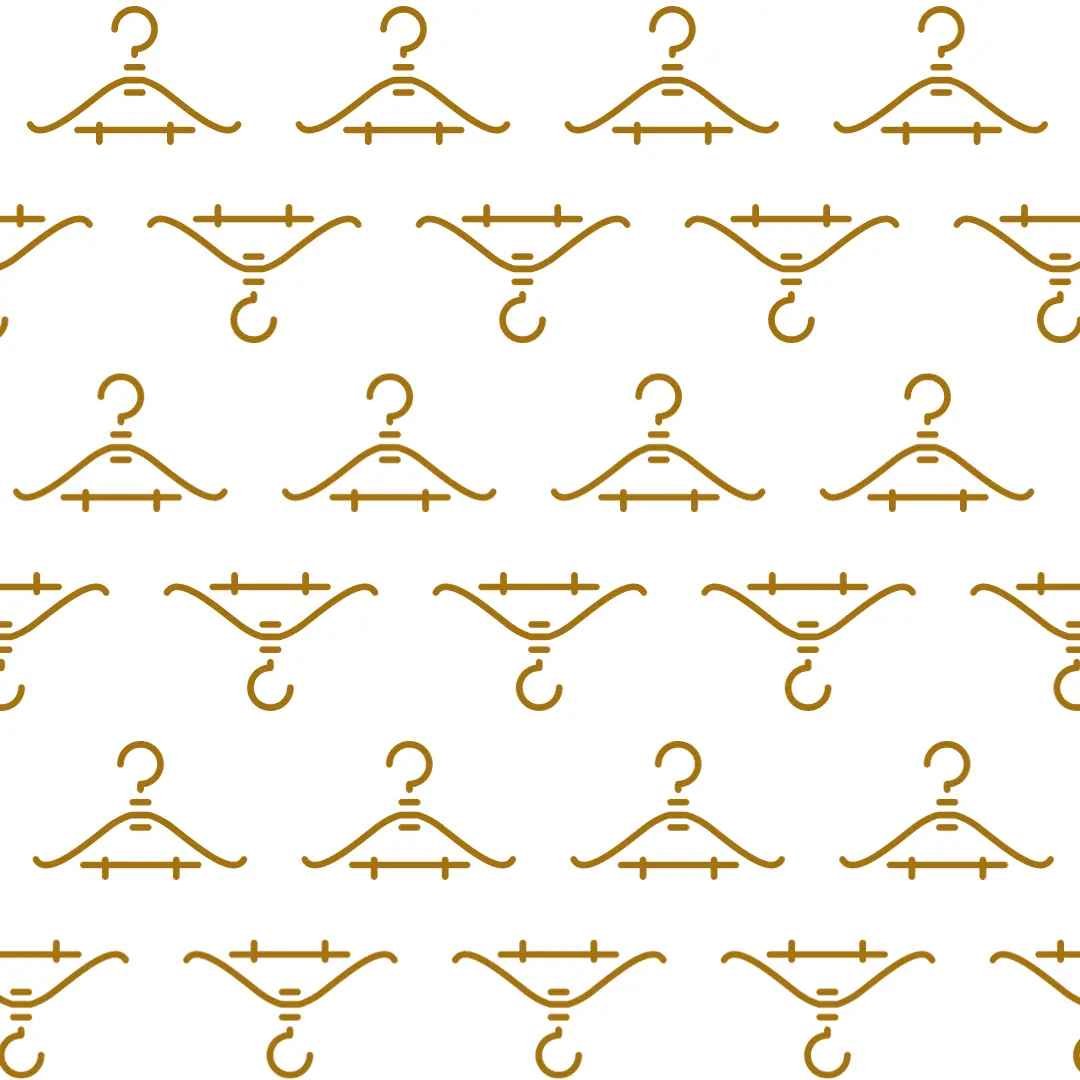
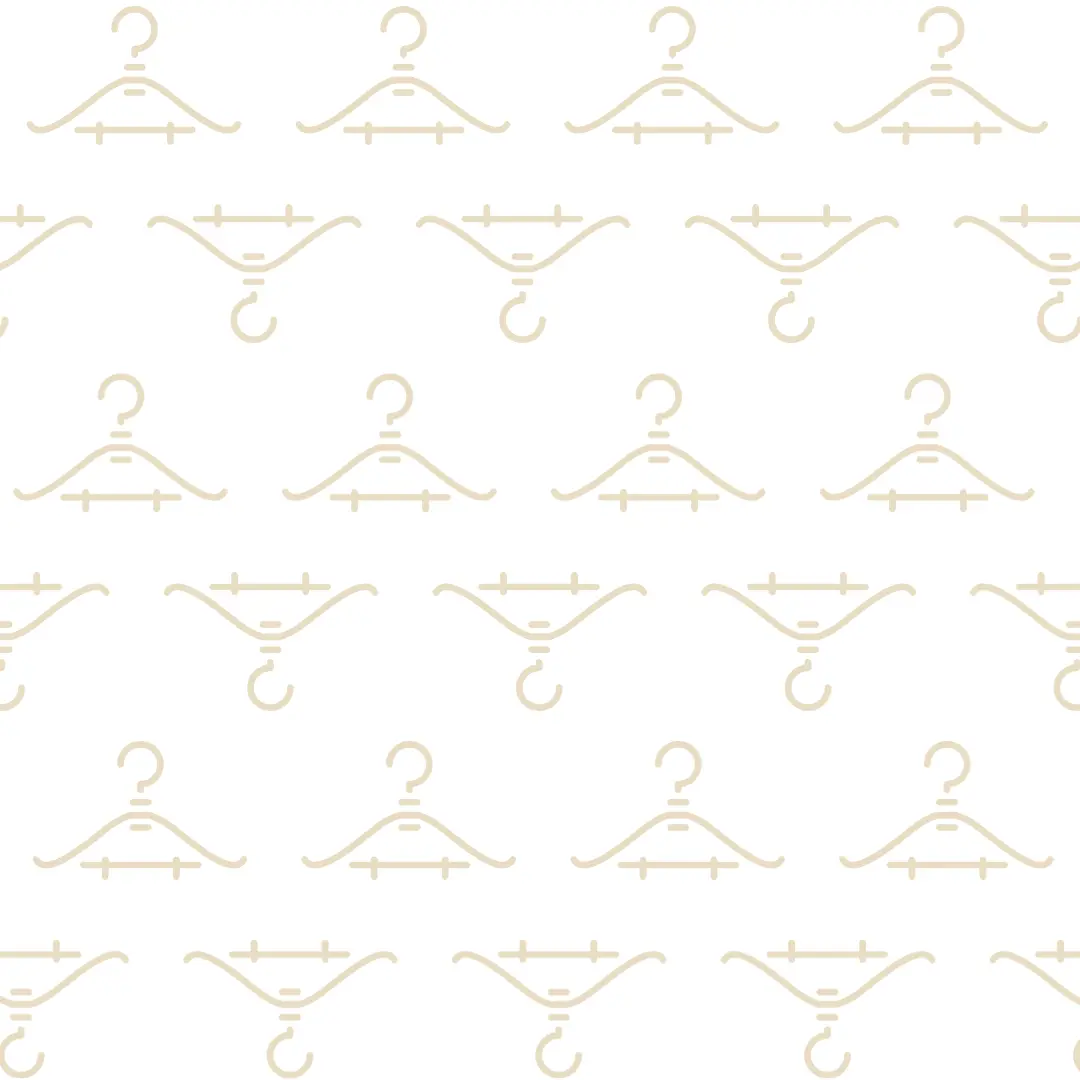
uploads a new background that is lighter

diff --git a/src/index.css b/src/index.css
@@ -1,5 +1,17 @@
 #root {
-  /* background-image: url("assets/hanger_background.webp") */
+  background-image: url("assets/CodeCloset_Background.webp")
+}
+
+.img_overlay {
+  position: absolute;
+  top: 0;
+  left: 0;
+  height: 100%;
+  width: 100%;
+  /* opacity: 0; */
+  z-index: 1;
+  background-color: #191b22;
+  opacity: 0.7;
 }
 
 html {
